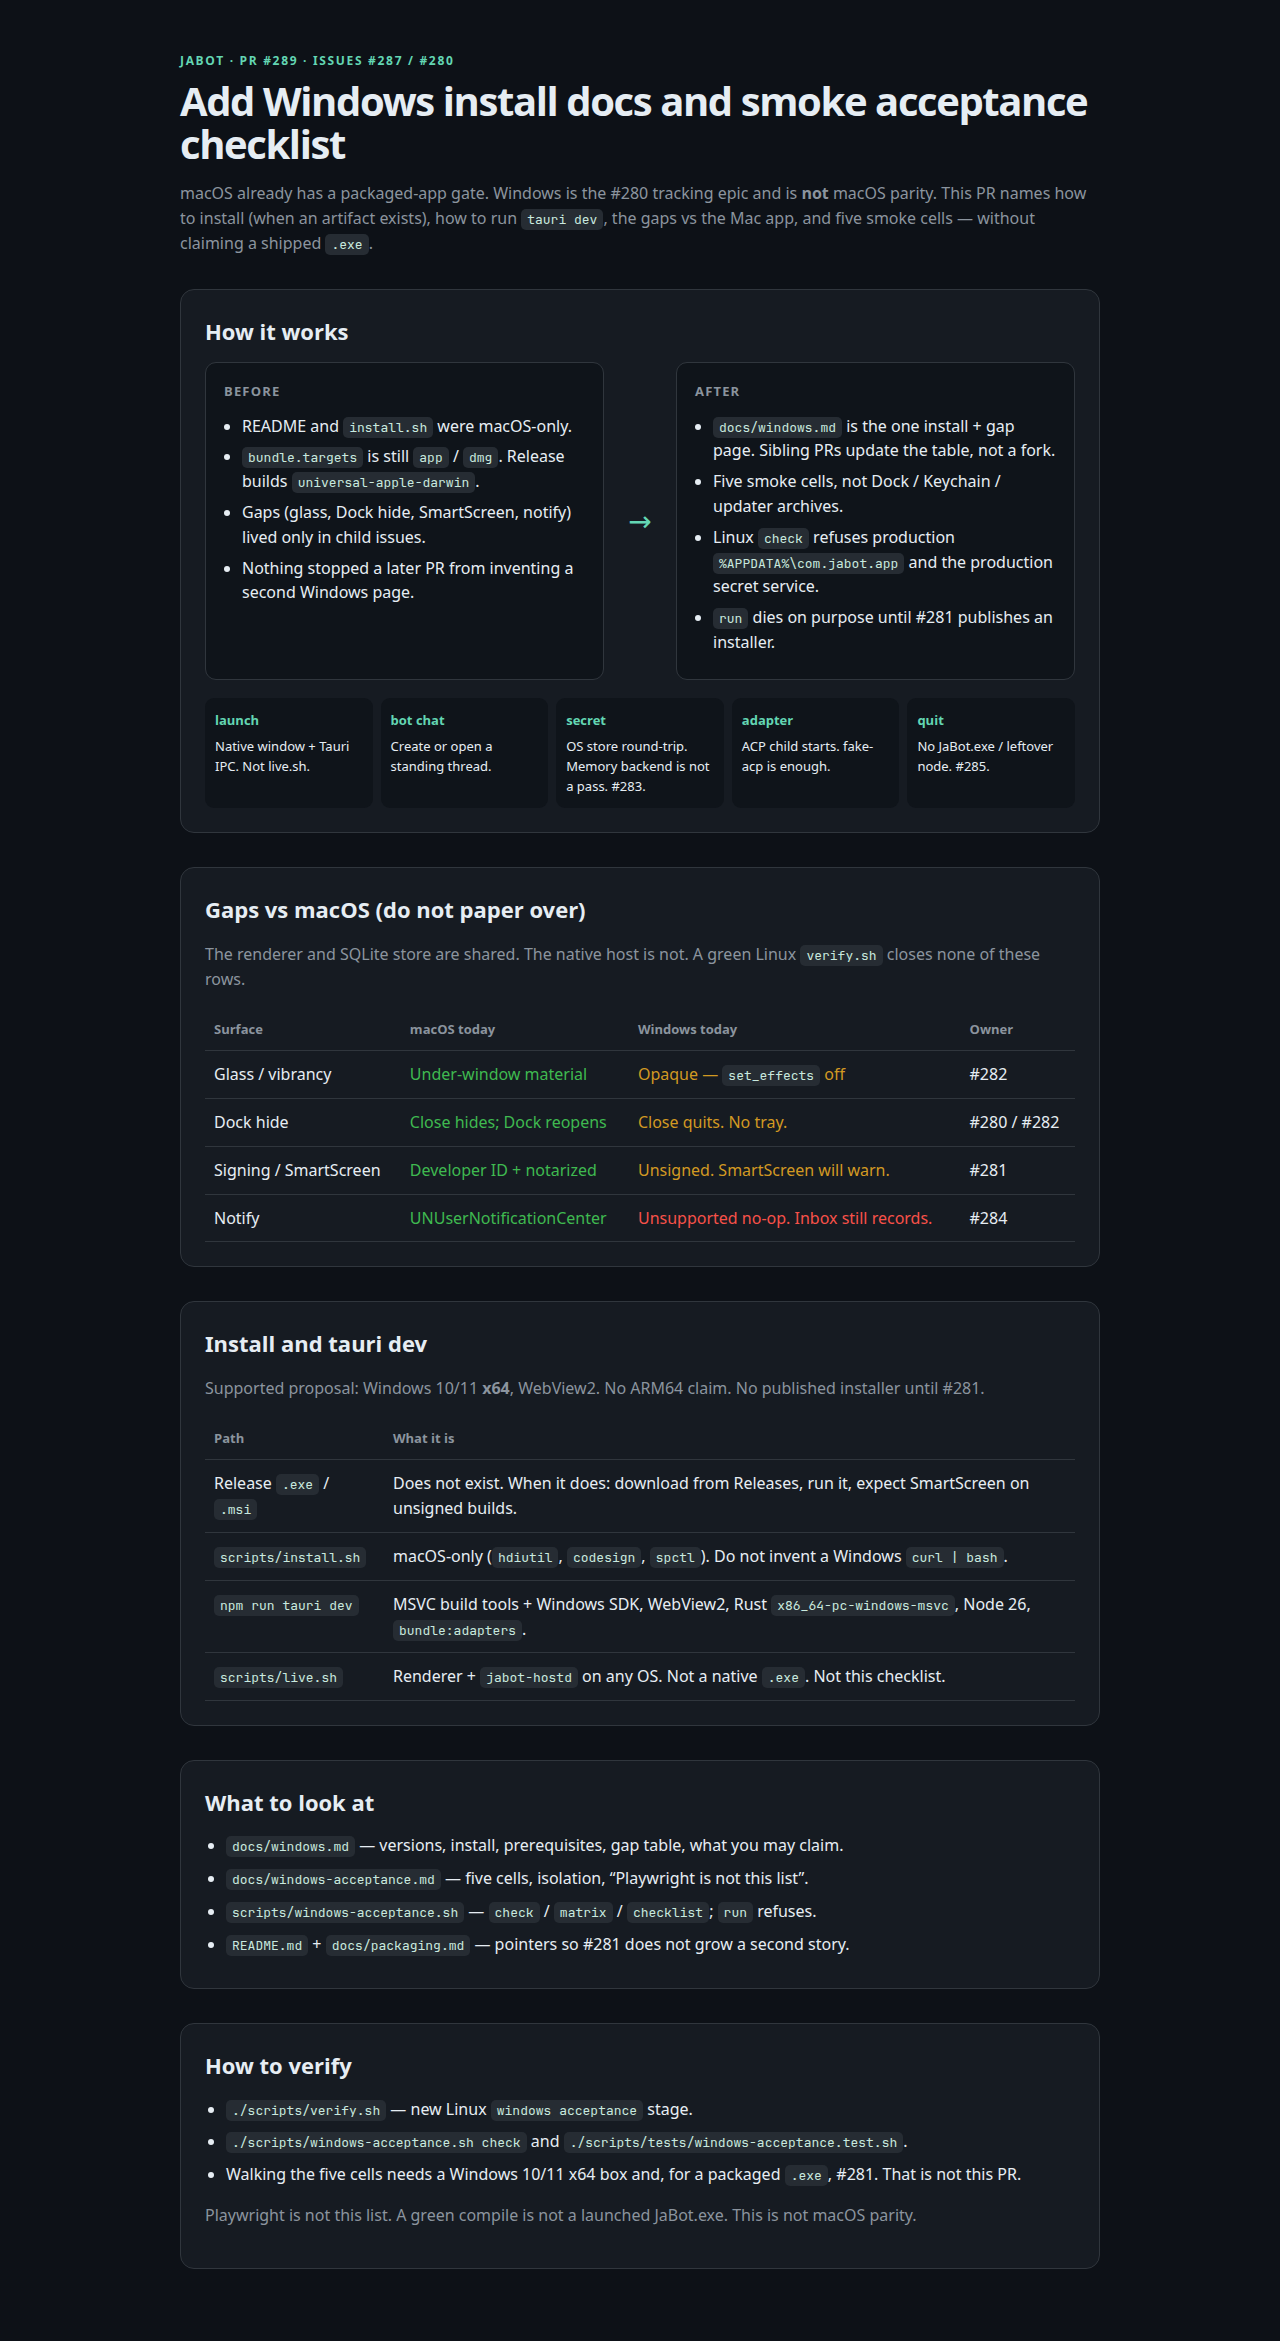
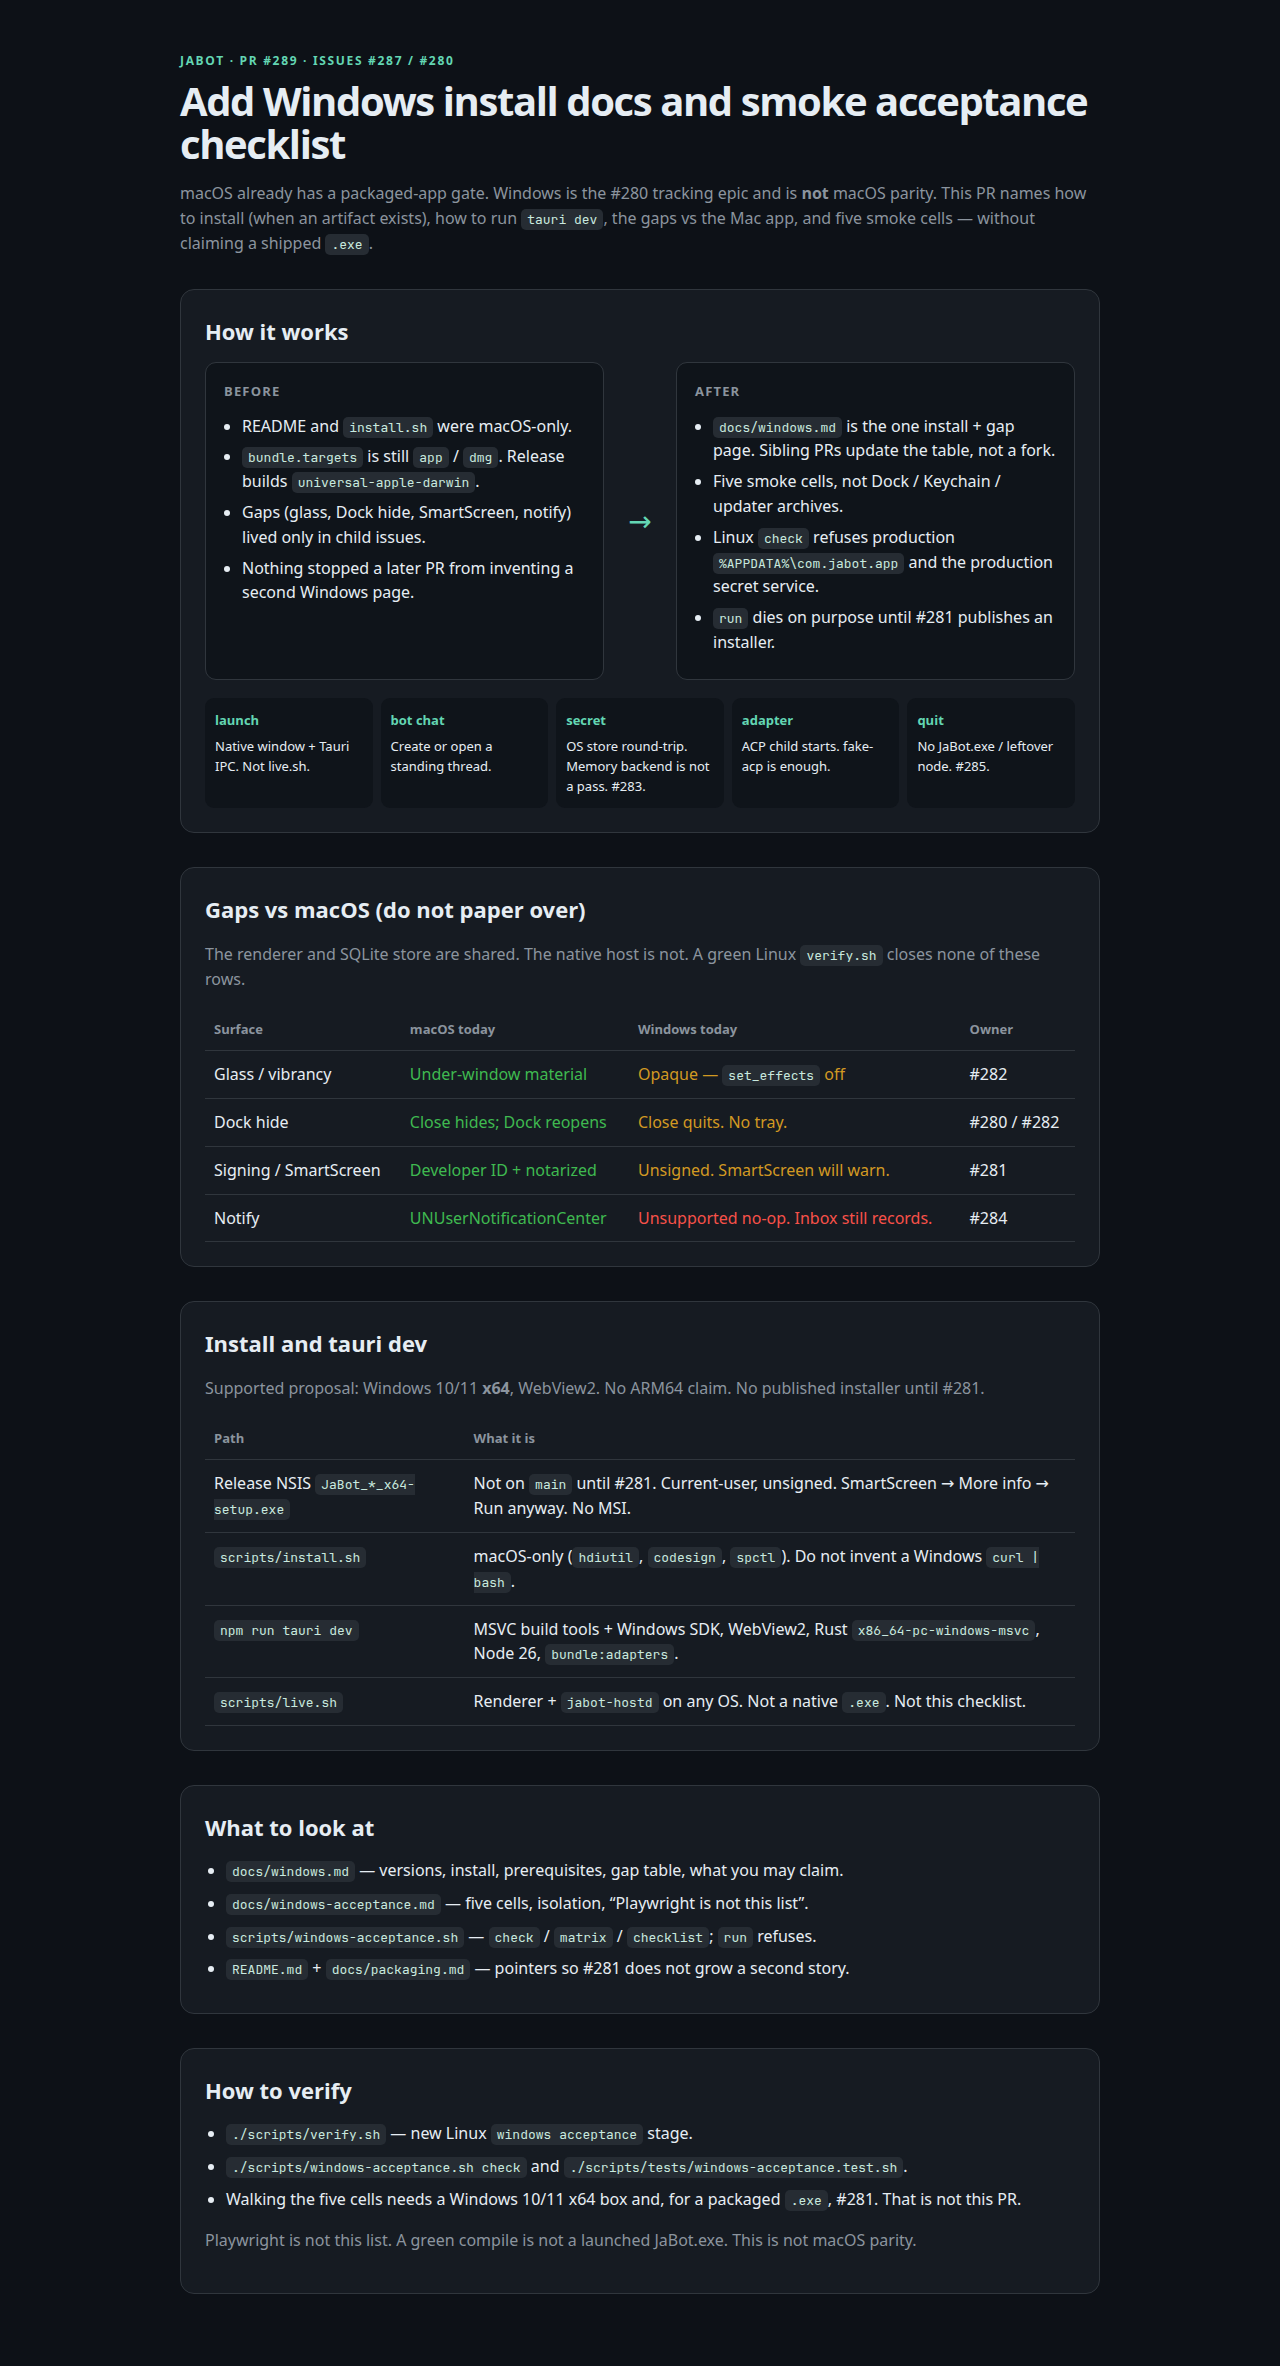
Align Windows install docs with the NSIS sibling PR
#281 / PR #291 picked NSIS (JaBot_*_x64-setup.exe, current-user,
unsigned) and no MSI. Name that artifact here so the two PRs do
not tell two installer stories.

diff --git a/docs/img/windows-docs/walkthrough.html b/docs/img/windows-docs/walkthrough.html
@@ -93,7 +93,7 @@
       <table>
         <thead><tr><th>Path</th><th>What it is</th></tr></thead>
         <tbody>
-          <tr><td>Release <code>.exe</code> / <code>.msi</code></td><td>Does not exist. When it does: download from Releases, run it, expect SmartScreen on unsigned builds.</td></tr>
+          <tr><td>Release NSIS <code>JaBot_*_x64-setup.exe</code></td><td>Not on <code>main</code> until #281. Current-user, unsigned. SmartScreen → More info → Run anyway. No MSI.</td></tr>
           <tr><td><code>scripts/install.sh</code></td><td>macOS-only (<code>hdiutil</code>, <code>codesign</code>, <code>spctl</code>). Do not invent a Windows <code>curl | bash</code>.</td></tr>
           <tr><td><code>npm run tauri dev</code></td><td>MSVC build tools + Windows SDK, WebView2, Rust <code>x86_64-pc-windows-msvc</code>, Node 26, <code>bundle:adapters</code>.</td></tr>
           <tr><td><code>scripts/live.sh</code></td><td>Renderer + <code>jabot-hostd</code> on any OS. Not a native <code>.exe</code>. Not this checklist.</td></tr>

diff --git a/docs/windows.md b/docs/windows.md
@@ -17,11 +17,16 @@ what is actually wired.
 | macOS signing / notarization / updater | [packaging.md](packaging.md) |
 | Any-OS renderer + host (no native window) | [CONTRIBUTING.md](../CONTRIBUTING.md) (`scripts/live.sh`) |
 
-Sibling Windows PRs (#281 packaging, #282 chrome, #283 secrets, #284 notify,
-#285 adapter lifecycle, #286 CI) should **update the gap table below** rather
-than open a second Windows install page. If an installer asset name or
-bundle target changes in #281, change the [Install](#install-the-artifact)
-section here and the pointer in [packaging.md](packaging.md) together.
+Sibling Windows PRs should **update the gap table below** rather than open a
+second Windows install page.
+
+- [#281](https://github.com/jabreeflor/jabot/pull/291) owns the NSIS overlay
+  (`tauri.windows.conf.json`), the `windows` release job, and the packaging
+  runbook in [packaging.md](packaging.md). This page is the user/dev install
+  + gaps + smoke list that PR points at.
+- [#282](https://github.com/jabreeflor/jabot/issues/282)–[#286](https://github.com/jabreeflor/jabot/issues/286)
+  close chrome, secrets, toasts, kill-tree, and CI. When they land, flip the
+  matching row here instead of restating install.
 
 ---
 
@@ -42,27 +47,37 @@ treat them as a tested compatibility matrix.
 
 ## Install the artifact
 
-**There is no published Windows installer yet.**
-`bundle.targets` in `src-tauri/tauri.conf.json` is still `["app", "dmg"]`,
-and [`.github/workflows/release.yml`](../.github/workflows/release.yml) builds
-`universal-apple-darwin` only. Adding an NSIS and/or MSI target and uploading
-it next to the macOS `.dmg` is [#281](https://github.com/jabreeflor/jabot/issues/281).
+**Primary installer: NSIS `JaBot_*_x64-setup.exe`.** MSI / WiX is not an
+MVP target. The macOS `bundle.targets` stay `["app", "dmg"]`; Windows NSIS
+lives in `src-tauri/tauri.windows.conf.json` and is merged only on a
+Windows build ([#281](https://github.com/jabreeflor/jabot/issues/281) /
+[PR #291](https://github.com/jabreeflor/jabot/pull/291)). Until that PR
+is on `main`, GitHub Releases will not have a Windows asset.
 
-When that artifact exists, the intended path is:
+When the asset exists:
 
-1. Open the GitHub
-   [Releases](https://github.com/jabreeflor/jabot/releases/latest) page.
-2. Download the Windows installer #281 publishes (Tauri's usual primary is
-   an NSIS `*-setup.exe`; MSI is optional). Do not invent a `curl \| bash`
+1. Open
+   [Releases](https://github.com/jabreeflor/jabot/releases/latest).
+2. Download `JaBot_*_x64-setup.exe`. Do **not** invent a `curl | bash`
    Windows installer to match `scripts/install.sh` — that script is
    macOS-only (`hdiutil`, `codesign`, `spctl`).
-3. Run the installer. WebView2 is already on current Windows 10/11; a
-   missing runtime should be bootstrapped by Tauri's installer, not by us
-   bundling Edge.
-4. Launch **JaBot** from the Start menu or the install directory.
+3. Run it. It is **current-user** (no admin). WebView2 is required:
+   Windows 11 already has it; on Windows 10 the installer downloads the
+   Evergreen bootstrapper if needed.
+4. Launch **JaBot** from the Start menu.
 
-Until #281 lands, a Windows user cannot install a release build. A
-cross-compiled binary from macOS or Linux is not a supported install.
+Until #281 is merged and a release is cut, a Windows user cannot install
+a release build. A cross-compiled binary from macOS or Linux is not a
+supported install. Local production of the same artifact, once the
+overlay exists:
+
+```powershell
+npm run tauri build -- --target x86_64-pc-windows-msvc --bundles nsis
+```
+
+Cross-build via `cargo-xwin` is last-resort only — see
+[packaging.md](packaging.md) once #281 lands. Do not add `nsis` to the
+base `bundle.targets` array from this docs PR.
 
 ### Signing and SmartScreen
 
@@ -128,8 +143,10 @@ What you should expect **today**, before the child issues land:
 - Inbox cards persist; **no** toast banner (`notify` is the unsupported no-op).
 - ACP children can start; killing the tree on quit is [#285](https://github.com/jabreeflor/jabot/issues/285), not proven.
 
-`npm run tauri build` will not produce a Windows installer until #281 adds
-`nsis` / `msi` to `bundle.targets`. Do not add those targets in a docs PR.
+`npm run tauri build` on a Windows box produces the NSIS installer only
+after #281's `tauri.windows.conf.json` is on the tree. Do not add `nsis`
+to the base `bundle.targets` from this docs PR (D-005: macOS updater
+archives need `app` + `dmg` there).
 
 ---
 
@@ -147,7 +164,7 @@ any row. Closing a row is the linked child issue, plus the matching cell on
 | **Notify** | `UNUserNotificationCenter` banners; click-to-thread | **Unsupported no-op** (`notify/unsupported.rs`). Inbox still records the card (persist-then-notify) | [#284](https://github.com/jabreeflor/jabot/issues/284) |
 | Secrets | macOS Keychain, service `com.jabot.app` | `Secrets::Unavailable` — `put` fails closed. In-memory backend is tests/CI only, not persistence | [#283](https://github.com/jabreeflor/jabot/issues/283) |
 | Adapter kill tree | Process-group SIGTERM then SIGKILL | `CREATE_NEW_PROCESS_GROUP` on spawn; terminate falls through to `Child::kill()` (parent only). Job objects are the planned fix | [#285](https://github.com/jabreeflor/jabot/issues/285) |
-| Installer / release | `.dmg` + `install.sh` + updater archives from `release.yml` | No Windows bundle target, no Windows release job | [#281](https://github.com/jabreeflor/jabot/issues/281) |
+| Installer / release | `.dmg` + `install.sh` + updater archives from `release.yml` | NSIS `*-setup.exe` from a sibling `windows` release job — not on `main` until [#281](https://github.com/jabreeflor/jabot/issues/281) / [PR #291](https://github.com/jabreeflor/jabot/pull/291) | [#281](https://github.com/jabreeflor/jabot/issues/281) |
 | Auto-update | `tauri-plugin-updater` registered on macOS only | Plugin is not registered; no `windows-*` feed entry | [#281](https://github.com/jabreeflor/jabot/issues/281) (artifacts first) |
 | CI so the port does not rot | Linux `verify` + scoped macOS lint / packaged-acceptance | No Windows compile/verify job | [#286](https://github.com/jabreeflor/jabot/issues/286) |
 

diff --git a/docs/packaging.md b/docs/packaging.md
@@ -405,20 +405,22 @@ bolt a post-upload staple onto a file that is already published.
 
 ## Windows
 
-The `.dmg` / `install.sh` path above is unchanged and remains the only
-published install. Windows packaging (NSIS/MSI targets, a Windows release
-job, Authenticode if a cert exists) is
-[#281](https://github.com/jabreeflor/jabot/issues/281) under tracking epic
-[#280](https://github.com/jabreeflor/jabot/issues/280).
+The `.dmg` / `install.sh` path above is unchanged. Windows MVP is **one
+NSIS installer** (`JaBot_*_x64-setup.exe`, current-user, unsigned). MSI is
+not built. The overlay, sibling `windows` release job, and artifact checks
+are [#281](https://github.com/jabreeflor/jabot/issues/281) /
+[PR #291](https://github.com/jabreeflor/jabot/pull/291) — that PR extends
+this runbook; do not fork a second copy here.
 
-User-facing Windows install, the gap list vs macOS (glass, Dock hide,
-signing/SmartScreen, notify), and the five-cell smoke checklist live in
-[`docs/windows.md`](windows.md) so this runbook does not grow a second
-incomplete installer story. Sibling Windows PRs should update that page
-(and the pointer in this table) rather than contradict it.
+User-facing install, the gap list vs macOS (glass, Dock hide,
+signing/SmartScreen, notify), `tauri dev` prerequisites, and the five-cell
+smoke checklist live in [`docs/windows.md`](windows.md) (#287) under
+tracking epic [#280](https://github.com/jabreeflor/jabot/issues/280).
+Sibling Windows PRs should update that page rather than contradict it.
 
-A green macOS release is not a Windows ship. `bundle.targets` is still
-`["app", "dmg"]` until #281 says otherwise.
+A green macOS release is not a Windows ship. Base `bundle.targets` stays
+`["app", "dmg"]`; NSIS is the Windows overlay, not a second entry in that
+array (D-005).
 
 ## Entitlements
 

diff --git a/docs/windows-acceptance.md b/docs/windows-acceptance.md
@@ -26,7 +26,7 @@ touch Credential Manager, and never prove a process tree died with the
 
 | Cell | What it proves | Blocked by today | Evidence |
 |---|---|---|---|
-| **launch** | Native window starts; renderer reaches the host through Tauri IPC (`host_rpc` / `host/hello`) | Packaged `.exe`: [#281](https://github.com/jabreeflor/jabot/issues/281). Local: `tauri dev` prerequisites in [windows.md](windows.md) | Screenshot of the window past "Connecting to host…"; pid of `JaBot.exe` |
+| **launch** | Native window starts; renderer reaches the host through Tauri IPC (`host_rpc` / `host/hello`) | Packaged NSIS `.exe`: [#281](https://github.com/jabreeflor/jabot/issues/281) / [PR #291](https://github.com/jabreeflor/jabot/pull/291). Local: `tauri dev` prerequisites in [windows.md](windows.md) | Screenshot of the window past "Connecting to host…"; pid of `JaBot.exe` |
 | **create/open bot chat** | New or existing bot thread opens and can take a message | UI is shared; WebView2 must actually paint it | Screenshot of the standing thread / composer |
 | **secret round-trip** | `put` then `get` of a throwaway secret via the **OS** store | [#283](https://github.com/jabreeflor/jabot/issues/283). Today `Secrets::Unavailable` | Credential Manager item under an isolated service, not `JABOT_SECRETS_BACKEND=memory` |
 | **adapter spawn** | An ACP child starts for that thread (`fake-acp-agent` is enough) | Spawn flags exist; tree-kill is [#285](https://github.com/jabreeflor/jabot/issues/285) | Adapter stderr log or a live child pid |

diff --git a/README.md b/README.md
@@ -26,13 +26,16 @@ the script is a one-time thing.
 
 ### Windows (in progress)
 
-Windows 10/11 **x64** is the proposed second desktop target
-([#280](https://github.com/jabreeflor/jabot/issues/280)). There is **no**
-shipped Windows installer yet ([#281](https://github.com/jabreeflor/jabot/issues/281)),
-and this is **not** macOS parity — glass/vibrancy, Dock hide,
-signing/SmartScreen, and notifications are documented gaps. Install, `tauri
-dev` prerequisites, and the smoke checklist:
-[docs/windows.md](docs/windows.md) (#287).
+Windows 10/11 **x64**: when
+[#281](https://github.com/jabreeflor/jabot/issues/281) publishes it, download
+`JaBot_*_x64-setup.exe` from the same
+[Releases](https://github.com/jabreeflor/jabot/releases/latest) page and run
+it (NSIS, current-user, **not** Authenticode-signed — SmartScreen will
+warn). This is **not** macOS parity. Install steps, `tauri dev`
+prerequisites, the gap list (glass, Dock hide, signing/SmartScreen,
+notify), and the smoke checklist: [docs/windows.md](docs/windows.md)
+([#287](https://github.com/jabreeflor/jabot/issues/287) /
+[#280](https://github.com/jabreeflor/jabot/issues/280)).
 
 ## Desktop app (Tauri 2)
 
